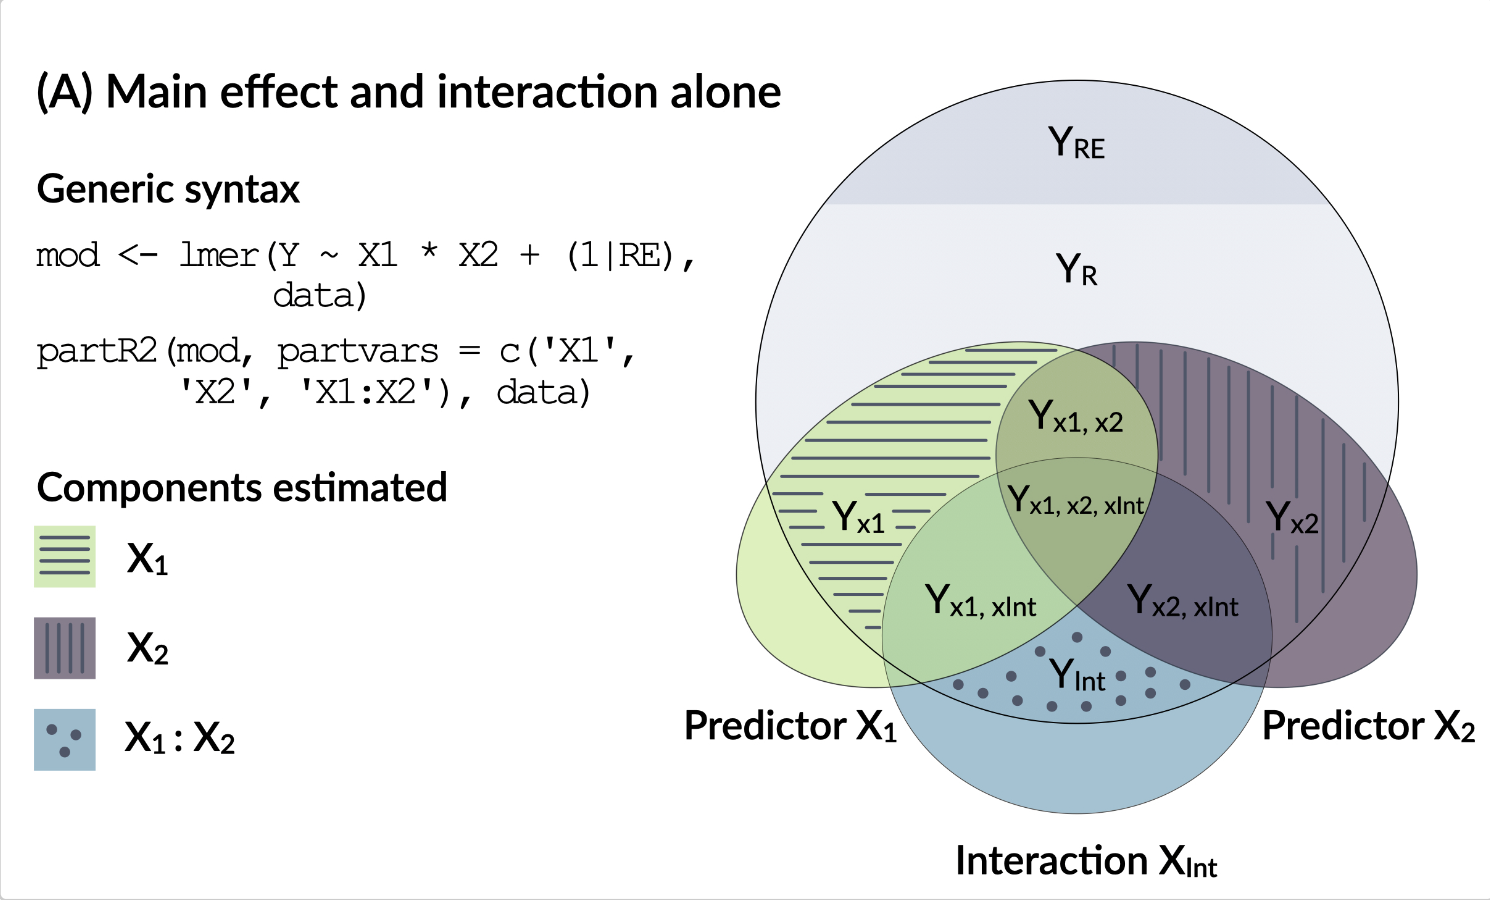
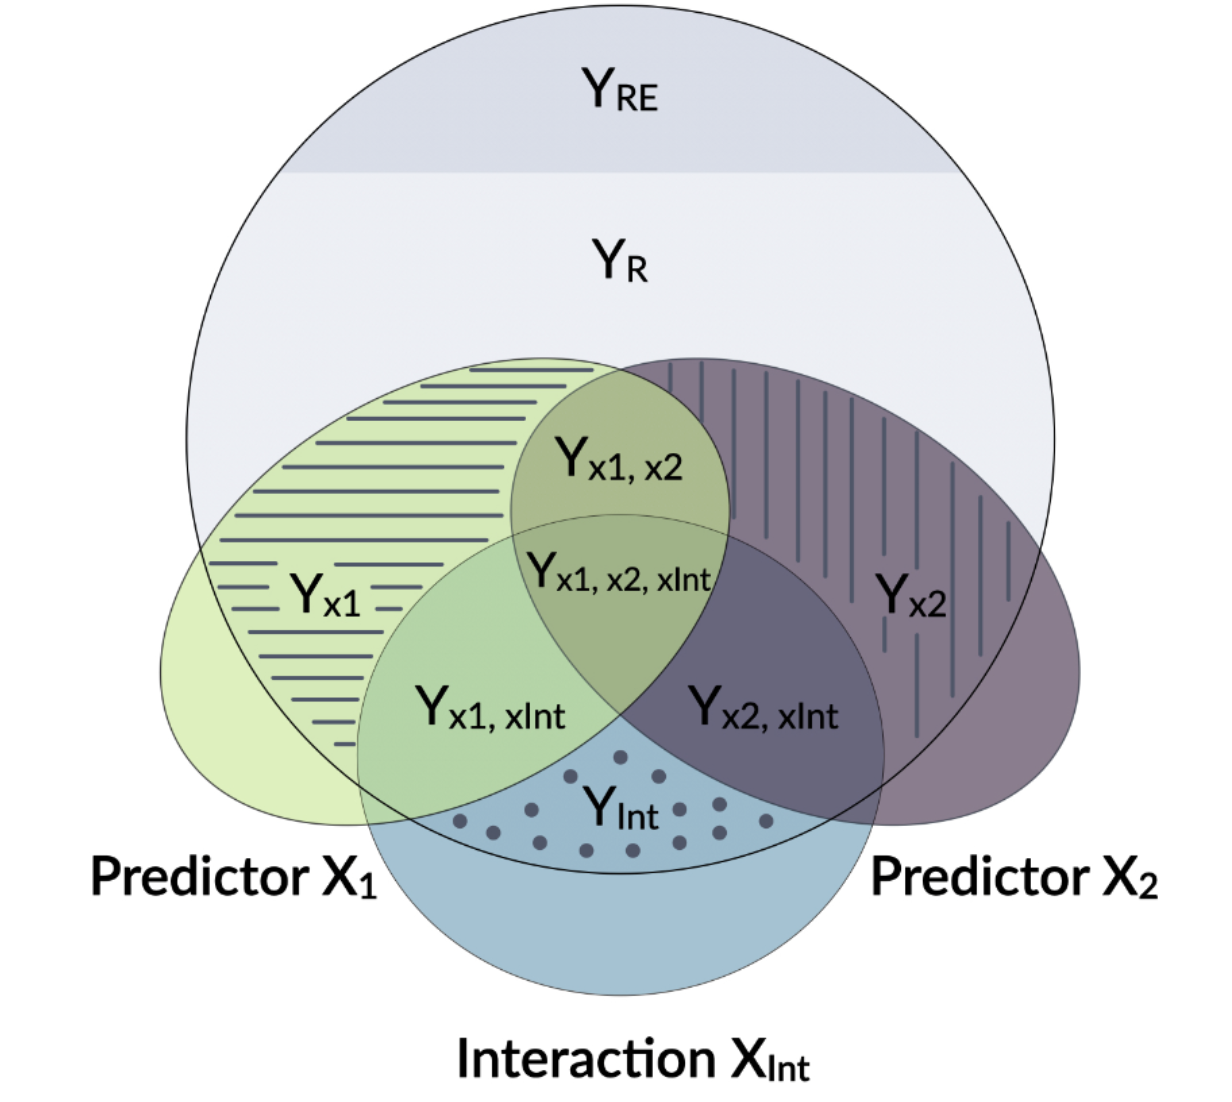
update projects

diff --git a/_site/projects.html b/_site/projects.html
@@ -143,7 +143,7 @@ gtag('config', 'G-FYLF41PFGT', { 'anonymize_ip': true});
 <div class="quarto-layout-cell" style="flex-basis: 81.0%;justify-content: flex-start;">
 <p><a href="https://joss.theoj.org/papers/10.21105/joss.07626"><code>AutoEmulate</code>: Speeding up physics simulations using machine learning.</a><br>
 <em>JOSS</em> (2025) | <a href="https://github.com/alan-turing-institute/autoemulate">Code</a><br>
-<a href="#x-ae">:In a nutshell</a></p>
+<a href="#x-ae">:🥥</a></p>
 </div>
 </div>
 </div>
@@ -153,12 +153,12 @@ gtag('config', 'G-FYLF41PFGT', { 'anonymize_ip': true});
 <div class="quarto-layout-panel" data-layout="[20,85]">
 <div class="quarto-layout-row">
 <div class="quarto-layout-cell" style="flex-basis: 19.1%;justify-content: center;">
-<p><img src="pics/rptr.png" class="img-fluid"></p>
+<p><img src="pics/rptr2.png" class="img-fluid"></p>
 </div>
 <div class="quarto-layout-cell" style="flex-basis: 81.0%;justify-content: flex-start;">
 <p><a href="https://besjournals.onlinelibrary.wiley.com/doi/10.1111/2041-210X.12797"><code>rptR</code>: Intra-class coefficients for hierarchical models.</a><br>
 <em>Methods in Ecology and Evolution</em> (2017) | <a href="https://github.com/mastoffel/rptR">Code</a><br>
-<a href="#x-rp">:In a nutshell</a></p>
+<a href="#x-rp">:🥥</a></p>
 </div>
 </div>
 </div>
@@ -168,12 +168,12 @@ gtag('config', 'G-FYLF41PFGT', { 'anonymize_ip': true});
 <div class="quarto-layout-panel" data-layout="[20,85]">
 <div class="quarto-layout-row">
 <div class="quarto-layout-cell" style="flex-basis: 19.1%;justify-content: center;">
-<p><img src="pics/venn2.jpeg" class="img-fluid"></p>
+<p><img src="pics/venn.png" class="img-fluid"></p>
 </div>
 <div class="quarto-layout-cell" style="flex-basis: 81.0%;justify-content: flex-start;">
 <p><a href="https://peerj.com/articles/11414/"><code>partR2</code>: <span class="math inline"><em>R</em><sup>2</sup></span> for individual fixed effects in hierarchical models.</a><br>
 <em>PeerJ</em> (2021) | <a href="https://github.com/mastoffel/partR2">Code</a><br>
-<a href="#x-p2">:In a nutshell</a></p>
+<a href="#x-p2">:🥥</a></p>
 </div>
 </div>
 </div>
@@ -188,7 +188,7 @@ gtag('config', 'G-FYLF41PFGT', { 'anonymize_ip': true});
 <div class="quarto-layout-cell" style="flex-basis: 81.0%;justify-content: flex-start;">
 <p><a href="https://besjournals.onlinelibrary.wiley.com/doi/full/10.1111/2041-210X.12588"><code>inbreedR</code>: Identity disequlibria and more.</a><br>
 <em>Methods in Ecology and Evolution</em> (2016) | <a href="https://github.com/mastoffel/inbreedR">Code</a><br>
-<a href="#x-in">:In a nutshell</a></p>
+<a href="#x-in">:🥥</a></p>
 </div>
 </div>
 </div>
@@ -203,7 +203,7 @@ gtag('config', 'G-FYLF41PFGT', { 'anonymize_ip': true});
 <div class="quarto-layout-cell" style="flex-basis: 81.0%;justify-content: flex-start;">
 <p><a href="https://besjournals.onlinelibrary.wiley.com/doi/full/10.1111/2041-210X.12588"><code>GCalignR</code>: Aligning gas chromatography samples.</a><br>
 <em>Plos One (2018)</em> | <a href="https://github.com/mottensmann/GCalignR/graphs/contributors">Code</a><br>
-<a href="#x-gc">:In a nutshell</a></p>
+<a href="#x-gc">:🥥</a></p>
 </div>
 </div>
 </div>
@@ -224,7 +224,7 @@ gtag('config', 'G-FYLF41PFGT', { 'anonymize_ip': true});
 <div class="quarto-layout-cell" style="flex-basis: 81.0%;justify-content: flex-start;">
 <p><a href="https://academic.oup.com/evlett/article/8/2/222/7327097">Exploring lethal mutations and their evolutionary dynamics.</a><br>
 <em>Evol letters</em> (2024) | <a href="https://github.com/mastoffel/haplotype_homozygosity">Code</a><br>
-<a href="#x-el">:In a nutshell</a></p>
+<a href="#x-el">:🥥</a></p>
 </div>
 </div>
 </div>
@@ -239,7 +239,7 @@ gtag('config', 'G-FYLF41PFGT', { 'anonymize_ip': true});
 <div class="quarto-layout-cell" style="flex-basis: 81.0%;justify-content: flex-start;">
 <p><a href="https://onlinelibrary.wiley.com/doi/full/10.1002/evl3.229">Long runs of homozygosity have a higher mutation load because their haplotypes are younger</a>.<br>
 <em>Evol Letters</em> (2021) | <a href="https://github.com/mastoffel/sheep_roh">Code</a><br>
-<a href="#x-roh">:In a nutshell</a></p>
+<a href="#x-roh">:🥥</a></p>
 </div>
 </div>
 </div>
@@ -254,7 +254,7 @@ gtag('config', 'G-FYLF41PFGT', { 'anonymize_ip': true});
 <div class="quarto-layout-cell" style="flex-basis: 81.0%;justify-content: flex-start;">
 <p><a href="https://www.nature.com/articles/s41467-021-23222-9">Effect size and genetic basis of inbreeding depression in the wild</a>.<br>
 <em>Nature Comms</em> (2021) | <a href="https://github.com/mastoffel/sheep_ID">Code</a><br>
-<a href="#x-id">:In a nutshell</a></p>
+<a href="#x-id">:🥥</a></p>
 </div>
 </div>
 </div>
@@ -272,7 +272,7 @@ gtag('config', 'G-FYLF41PFGT', { 'anonymize_ip': true});
 <div class="quarto-layout-cell" style="flex-basis: 81.0%;justify-content: flex-start;">
 <p><a href="https://onlinelibrary.wiley.com/doi/full/10.1111/mec.15385">Early life gut microbiota predict extreme sex differences in Elephant Seals.</a><br>
 <em>Mol Ecol</em> (2020) | <a href="https://github.com/mastoffel/nes_microbiome">Code</a><br>
-<a href="#x-nes">:In a nutshell</a></p>
+<a href="#x-nes">:🥥</a></p>
 </div>
 </div>
 </div>
@@ -287,7 +287,7 @@ gtag('config', 'G-FYLF41PFGT', { 'anonymize_ip': true});
 <div class="quarto-layout-cell" style="flex-basis: 81.0%;justify-content: flex-start;">
 <p><a href="https://www.nature.com/articles/s41467-018-06695-z">Industrial exploitation brought one-third of pinniped species to the edge of extinction</a>.<br>
 <em>Nature Comms</em> (2018) | <a href="https://github.com/mastoffel/pinniped_bottlenecks">Code</a><br>
-<a href="#x-bot">:In a nutshell</a></p>
+<a href="#x-bot">:🥥</a></p>
 </div>
 </div>
 </div>
@@ -302,7 +302,7 @@ gtag('config', 'G-FYLF41PFGT', { 'anonymize_ip': true});
 <div class="quarto-layout-cell" style="flex-basis: 81.0%;justify-content: flex-start;">
 <p><a href="https://www.pnas.org/doi/abs/10.1073/pnas.1506076112">Skin chemicals encode clues to identify offspring, home colony and potential mates in fur seals.</a><br>
 <em>PNAS</em> (2015) | <a href="https://github.com/mastoffel/seal_chemical_fingerprints/blob/master/analysis_markdown.pdf">Code</a> | Article in the <a href="https://www.sueddeutsche.de/wissen/biologie-wie-robben-einander-finden-1.2604289">Sueddeutsche Zeitung</a>.<br>
-<a href="#x-chem">:In a nutshell</a></p>
+<a href="#x-chem">:🥥</a></p>
 </div>
 </div>
 </div>
@@ -319,7 +319,7 @@ gtag('config', 'G-FYLF41PFGT', { 'anonymize_ip': true});
 </div>
 <div class="quarto-layout-cell" style="flex-basis: 81.0%;justify-content: flex-start;">
 <p><a href="https://www.pnas.org/doi/10.1073/pnas.2210756120">Conservation management strategy impacts inbreeding and mutation load in scimitar-horned oryx.</a><br>
-<em>PNAS</em> (2023) | <a href="#x-oryx">:In a nutshell</a></p>
+<em>PNAS</em> (2023) | <a href="#x-oryx">:🥥</a></p>
 </div>
 </div>
 </div>
@@ -337,7 +337,7 @@ gtag('config', 'G-FYLF41PFGT', { 'anonymize_ip': true});
 <div class="quarto-layout-cell" style="flex-basis: 81.0%;justify-content: flex-start;">
 <p><a href="https://www.pnas.org/doi/abs/10.1073/pnas.1620043114">Biased sex ratios and the impact of early survival on female polygyny</a>.<br>
 <em>PNAS</em> (2017) | Code in Supplementary Material<br>
-<a href="#x-plov">:In a nutshell</a></p>
+<a href="#x-plov">:🥥</a></p>
 </div>
 </div>
 </div>
@@ -355,14 +355,14 @@ gtag('config', 'G-FYLF41PFGT', { 'anonymize_ip': true});
 <div class="quarto-layout-cell" style="flex-basis: 81.0%;justify-content: flex-start;">
 <p><a href="https://royalsocietypublishing.org/doi/full/10.1098/rspb.2022.0487">Impacts of systemic inbreeding in Thoroughbred racehorses.</a><br>
 <em>Proceedings of the Royal Society B</em> (2022)<br>
-<a href="#x-horse">:In a nutshell</a></p>
+<a href="#x-horse">:🥥</a></p>
 </div>
 </div>
 </div>
 </section>
 </section>
-<section id="deep-learning-side-projects" class="level2">
-<h2 class="anchored" data-anchor-id="deep-learning-side-projects">Deep learning side projects</h2>
+<section id="side-projects" class="level2">
+<h2 class="anchored" data-anchor-id="side-projects">Side projects</h2>
 <div>
 
 </div>
@@ -373,7 +373,7 @@ gtag('config', 'G-FYLF41PFGT', { 'anonymize_ip': true});
 </div>
 <div class="quarto-layout-cell" style="flex-basis: 89.5%;justify-content: flex-start;">
 <p><a href="https://www.turing.ac.uk/news/publications/data-study-group-final-report-global-witness-identifying-unregulated-mining-sites">Detecting artisanal mines in Myanmar from satellites</a><br>
-<a href="#x-mi">:In a nutshell</a></p>
+<a href="#x-mi">:🥥</a></p>
 </div>
 </div>
 </div>
